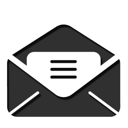
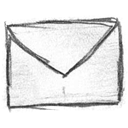
fix bug with controler Change design layout and refractor some template

diff --git a/src/Fabfoto/GalleryBundle/Resources/public/css/style.css b/src/Fabfoto/GalleryBundle/Resources/public/css/style.css
@@ -455,6 +455,10 @@ filter: progid:DXImageTransform.Microsoft.gradient( startColorstr='#606c88', end
 
 
 }
+.jumbotron .container {
+    position: relative;
+    z-index: 2;
+  }
 .jumbotron::after {
 content: '';
 display: block;
@@ -483,4 +487,28 @@ line-height: 1.25;
 }
 #pageArticle {
     margin-top: 50px;
+}
+.contact:after {
+content: '';
+display: block;
+position: absolute;
+top: 0;
+right: 0;
+bottom: 0;
+left: 0;
+background-image: url('/images/mail.png') ;
+background-attachment: initial;
+background-repeat: no-repeat;
+background-position-x: 95%;
+background-position-y: 80%;
+background-origin: initial;
+background-clip: initial;
+background-color: initial;
+opacity: .8;
+}
+.footer{
+ padding: 20px 0;
+ margin-top: 20px;
+ background-color: whiteSmoke;
+ border-top: 1px solid #E5E5E5;
 }

diff --git a/src/Fabfoto/UserBundle/Controller/ArticleBlogController.php b/src/Fabfoto/UserBundle/Controller/ArticleBlogController.php
@@ -29,7 +29,9 @@ class ArticleBlogController extends Controller
         $entities = $em->getRepository('FabfotoGalleryBundle:ArticleBlog')
                 ->findByAuthorUser($curentUser->getId());
 
-        return array('entities' => $entities);
+        return $this->render('FabfotoUserBundle:ArticleBlog:index.html.twig', array(
+            'entities'      => $entities,
+            ));
     }
 
     /**
@@ -48,9 +50,9 @@ class ArticleBlogController extends Controller
             throw $this->createNotFoundException('Unable to find ArticleBlog entity.');
         }
 
-        return array(
-            'entity' => $entity,
-        );
+        return $this->render('FabfotoUserBundle:ArticleBlog:edit.html.twig', array(
+            'entity'      => $entity,
+            ));
     }
 
     /**
@@ -64,10 +66,10 @@ class ArticleBlogController extends Controller
         $entity = new ArticleBlog();
         $form = $this->createForm(new ArticleBlogType(), $entity);
 
-        return array(
+        return $this->render('FabfotoUserBundle:ArticleBlog:new.html.twig', array(
             'entity' => $entity,
             'form' => $form->createView()
-        );
+            ));
     }
 
     /**
@@ -101,10 +103,10 @@ class ArticleBlogController extends Controller
             $this->get('session')->setFlash('error',  $this->get('translator')->trans("object.saved.error", array(), 'Admingenerator') );
         }
 
-        return array(
+        return $this->render('FabfotoUserBundle:ArticleBlog:new.html.twig', array(
             'entity' => $entity,
             'form' => $form->createView()
-        );
+            ));
     }
 
     /**
@@ -126,10 +128,10 @@ class ArticleBlogController extends Controller
 
         $editForm = $this->createForm(new ArticleBlogType(), $entity);
 
-        return array(
+        return $this->render('FabfotoUserBundle:ArticleBlog:edit.html.twig', array(
             'entity' => $entity,
-            'form' => $editForm->createView(),
-        );
+            'form' => $editForm->createView()
+            ));
     }
 
     /**
@@ -170,10 +172,10 @@ class ArticleBlogController extends Controller
             $this->get('session')->setFlash('error',  $this->get('translator')->trans("object.saved.error", array(), 'Admingenerator') );
         }
 
-        return array(
+        return $this->render('FabfotoUserBundle:ArticleBlog:edit.html.twig', array(
             'entity' => $entity,
-            'edit_form' => $editForm->createView(),
-        );
+            'form' => $editForm->createView()
+            ));
     }
 
     /**

diff --git a/src/Fabfoto/GalleryBundle/Controller/BaseController.php b/src/Fabfoto/GalleryBundle/Controller/BaseController.php
@@ -140,6 +140,20 @@ abstract class BaseController extends Controller
                         ->findOneBySlug($tag_slug);
     }
     /**
+     *
+     * @return Tag
+     */
+    protected function getTags()
+    {
+        return $this
+                        ->getDoctrine()
+                        ->getRepository('FabfotoGalleryBundle:Tag')
+                        ->createQueryBuilder('t')
+                        ->add('orderBy', 't.name DESC')
+                        ->getQuery()
+                        ->execute();
+    }
+    /**
      * To get an album by slug name
      * @param  string $slug
      * @return Album

diff --git a/src/Fabfoto/GalleryBundle/Controller/DefaultController.php b/src/Fabfoto/GalleryBundle/Controller/DefaultController.php
@@ -190,6 +190,15 @@ class DefaultController extends BaseController
                 ));
     }
 
+    public function allTagsAction(){
+
+        $tags = $this->getTags();
+        
+        return $this->render('FabfotoGalleryBundle:Default:Tags.html.twig', array(
+                    'tags' => $tags,
+                ));
+    }
+
     /**
      * @Cache(expires="tomorrow", public=true)
      * @Route("search", name="fabfoto_search")

diff --git a/src/Fabfoto/GalleryBundle/Controller/RSSController.php b/src/Fabfoto/GalleryBundle/Controller/RSSController.php
@@ -47,11 +47,6 @@ class RSSController extends BaseController
      */
     public function showBlogArticleAction(Tag $tag)
     {
-        $tag = $this->getTag($tag_slug);
-
-        if (!$tag) {
-            throw $this->createNotFoundException("no tag");
-        }
         $articles = $this->getBlogs(null, $tag);
 
         return $this->render('FabfotoGalleryBundle:RSS:RSSBlogTag.xml.twig', array(
